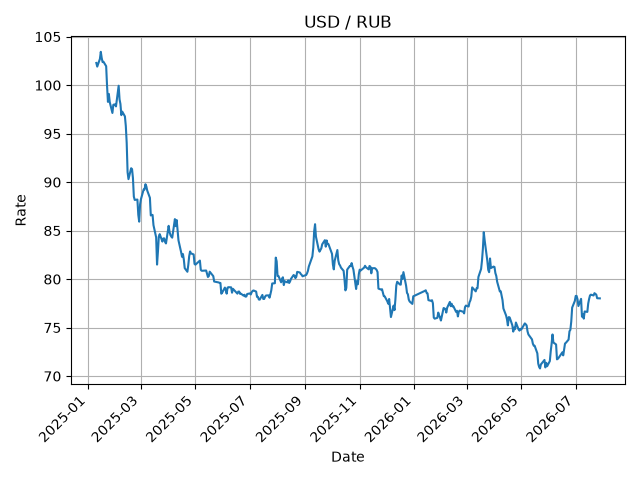
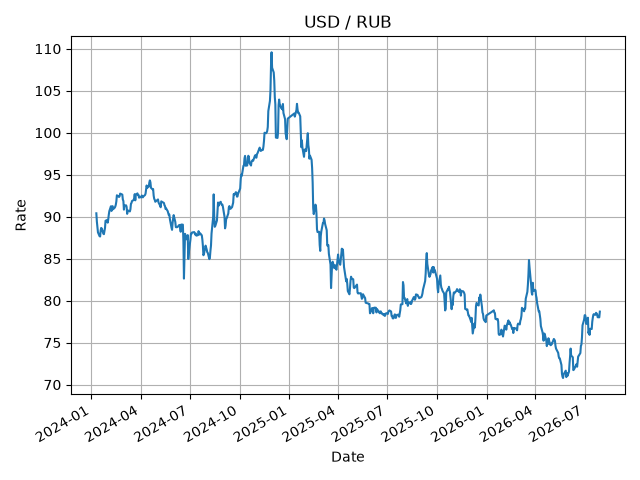
plot altering

diff --git a/serve/plot_rates.py b/serve/plot_rates.py
@@ -18,7 +18,7 @@ conn = psycopg2.connect(
     port=parsed.port or 5432
 )
 cur = conn.cursor()
-with open("serve/usd_trend.sql") as f:
+with open("serve/trend.sql") as f:
     char_code = os.environ.get("CURRENCY", "USD")
     cur.execute(f.read(), (char_code,))
 
@@ -33,6 +33,6 @@ plt.title(f"{char_code} / RUB")
 plt.xlabel("Date")
 plt.ylabel("Rate")
 plt.grid(True)
-plt.xticks(rotation=45, ha="right")
+plt.gcf().autofmt_xdate()
 plt.tight_layout()
-plt.savefig("serve/usd_trend.png")
+plt.savefig(f"serve/{char_code.lower()}_trend.png")
